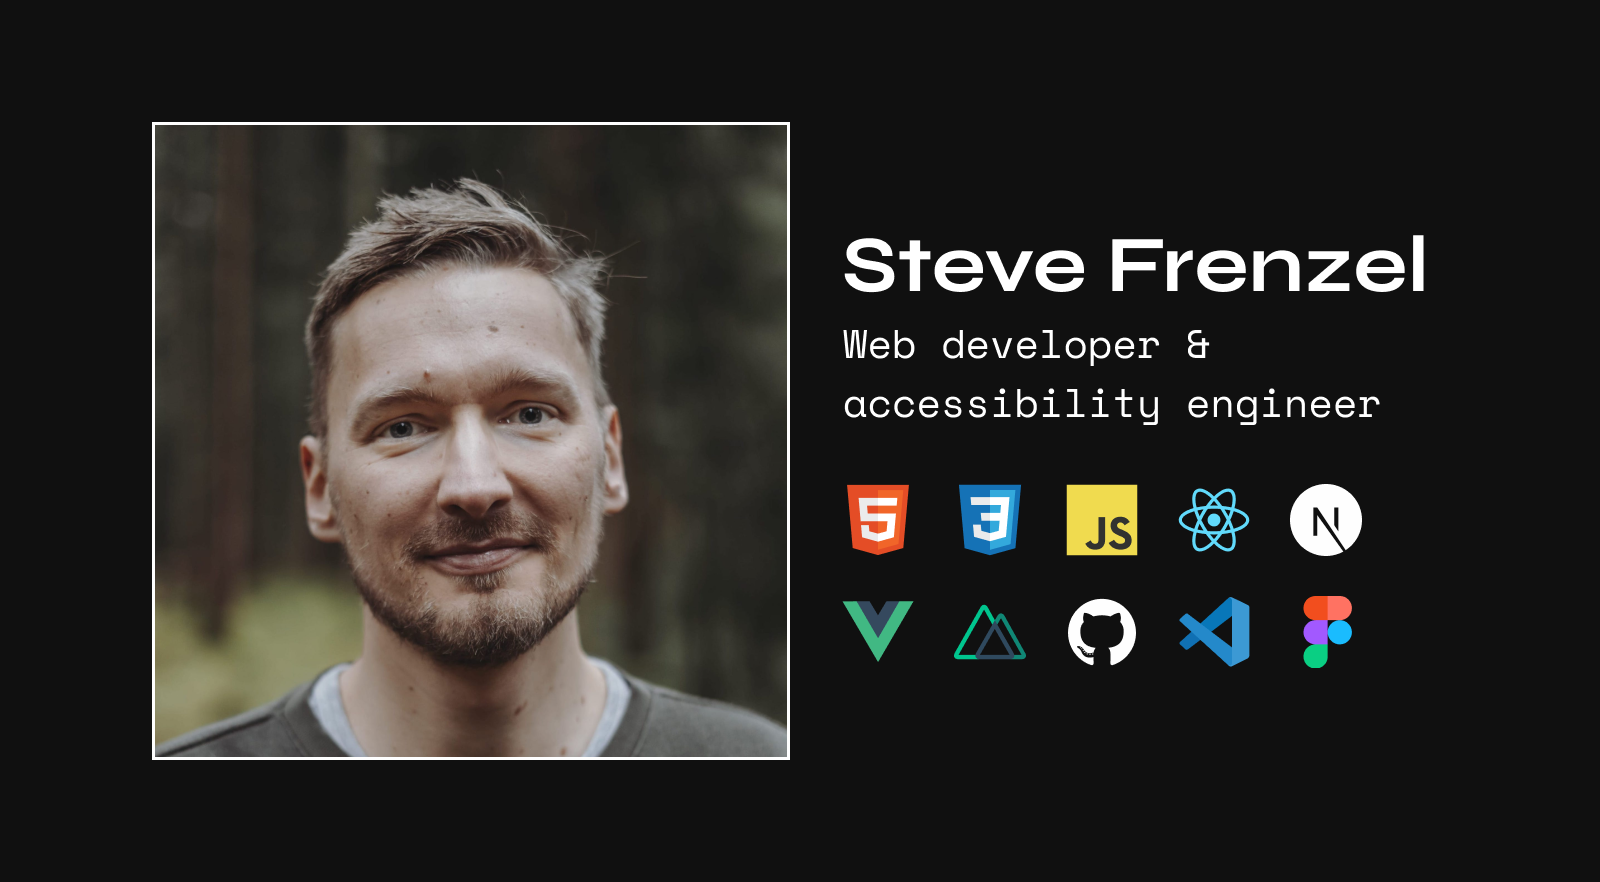
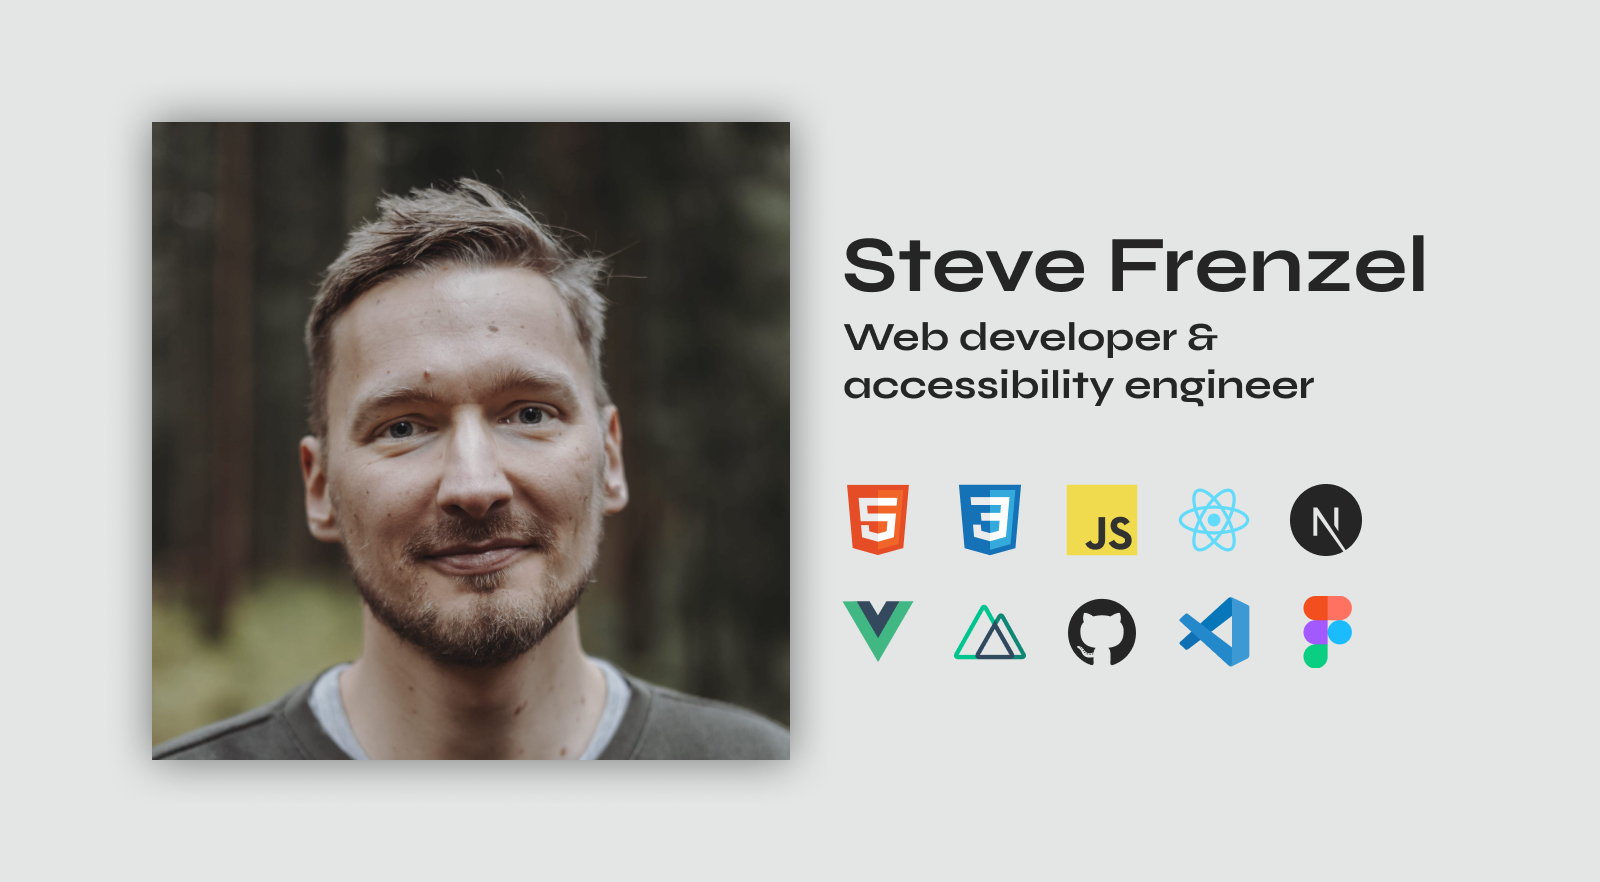
Update seo image, intro and headings

diff --git a/src/styles/global.css b/src/styles/global.css
@@ -20,7 +20,8 @@
   /* Colors */
   --color-black: #101010;
   --color-white: #fefefe;
-  --color-accent: greenyellow;
+  --color-black-alt: #252525;
+  --color-white-alt: #e4e5e5;
 
   /* Fluid font size */
   --step-0: clamp(1.13rem, calc(1.08rem + 0.22vw), 1.25rem);

diff --git a/README.md b/README.md
@@ -1,23 +1,24 @@
 # Steve Frenzel - Web developer & accessibility engineer
 
-## To do
+## 1. A few words
 
-### Important
+I have been working on my portfolio website in some form since I started my career as a Frontend Developer in February 2019. I can't remember how many variations I created, only to discard them.
 
-- [x] Add skip link
-- [x] Figure out where to place sections
-- [x] Create custom dividers in Figma
-- [x] Define accent color
+I always liked the components based approach of frameworks like [React](https://react.dev/) and [Vue.js](https://vuejs.org/), but had a big problem with the unnecessary client-side JavaScript generated there. I wish I could build websites like I do with these technologies, but generate static HTML websites in the process. All the more I was happy when I discovered [Astro](https://astro.build/)! It is the best of both worlds and in combination with [Netlify](https://www.netlify.com/) it is a developer experience that leaves nothing to be desired.
 
-### For later
+## 2. Things to come
 
-- [x] Custom border frames for "Projects"?
-- [x] Implement focus behavior
-- [x] Implement "Navigation"
-- [x] Implement "Footer"
-- [ ] Add SEO data and pictures
+- Theme switch between dark and light
+- Own page for job resume which can be downloaded as accessible PDF
+- Own page for blogs
 
-### Clean-up
+## 3. Tools and resources
 
-- [x] Create reusable components
-- [ ] Order all props alphabetically
+I used many resources and tools to create this website. Here is a partial list:
+
+- [SVG Gobbler](https://www.svggobbler.com/)
+- [Devicon](https://devicon.dev/)
+- [A modern CSS reset by Andy Bell](https://andy-bell.co.uk/a-modern-css-reset/)
+- [Outline animation by Adam Argyle](https://codepen.io/argyleink/pen/JjEzeLp)
+- [Standardizing Focus Styles With CSS Custom properties by Stephanie Eckles](https://css-tricks.com/standardizing-focus-styles-with-css-custom-properties/)
+- [Utopia - Fluid Responsive Design](https://utopia.fyi/)
